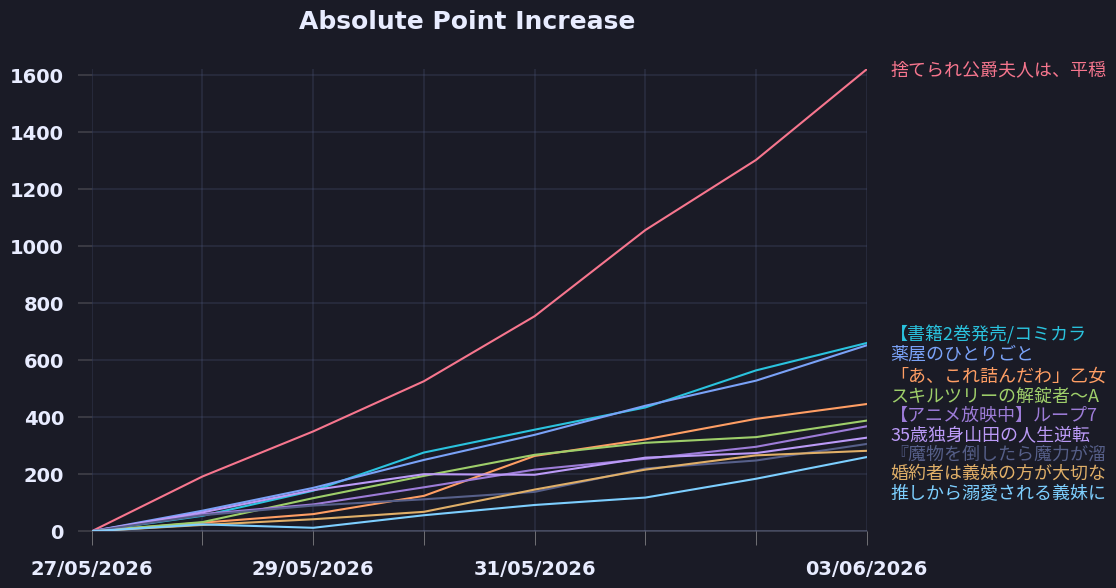
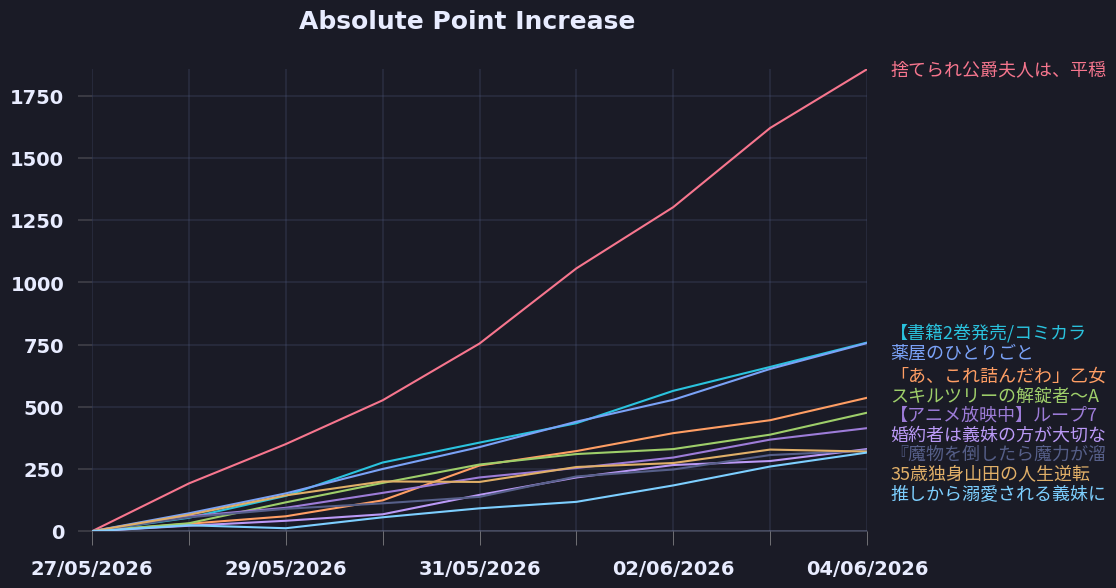
update plots

diff --git a/README.md b/README.md
@@ -14,7 +14,7 @@
 4. [「あ、これ詰んだわ」乙女ゲームのモブはモブでも、ヒロイン誘拐してヒーローに殺されるモブ転生ってあんまりすぎないか？！](https://ncode.syosetu.com/n0146ip/)
 5. [スキルツリーの解錠者〜A級パーティーを追放されたので【解錠&施錠】を活かして、S級冒険者を目指す〜](https://ncode.syosetu.com/n2693io/)
 6. [【アニメ放映中】ループ7回目の悪役令嬢は、元敵国で自由気ままな花嫁生活を満喫する](https://ncode.syosetu.com/n1784ga/)
-7. [35歳独身山田の人生逆転魔法　～現代社会に疲れた俺は異世界でスローライフを楽しむために現代で悪魔と戦って金儲けをしながら異世界村を発展させることにしました～](https://ncode.syosetu.com/n3115io/)
+7. [婚約者は義妹の方が大切なので、ふたりが結婚できるようにしてあげようと思います](https://ncode.syosetu.com/n8269hq/)
 8. [『魔物を倒したら魔力が溜まる』というスキルを授かり「本末転倒！」と僻地に追放されましたが、おかげさまで廃墟のリノベーションがはかどります](https://ncode.syosetu.com/n2256im/)
-9. [婚約者は義妹の方が大切なので、ふたりが結婚できるようにしてあげようと思います](https://ncode.syosetu.com/n8269hq/)
+9. [35歳独身山田の人生逆転魔法　～現代社会に疲れた俺は異世界でスローライフを楽しむために現代で悪魔と戦って金儲けをしながら異世界村を発展させることにしました～](https://ncode.syosetu.com/n3115io/)
 10. [推しから溺愛される義妹に転生しました](https://ncode.syosetu.com/n5287io/)